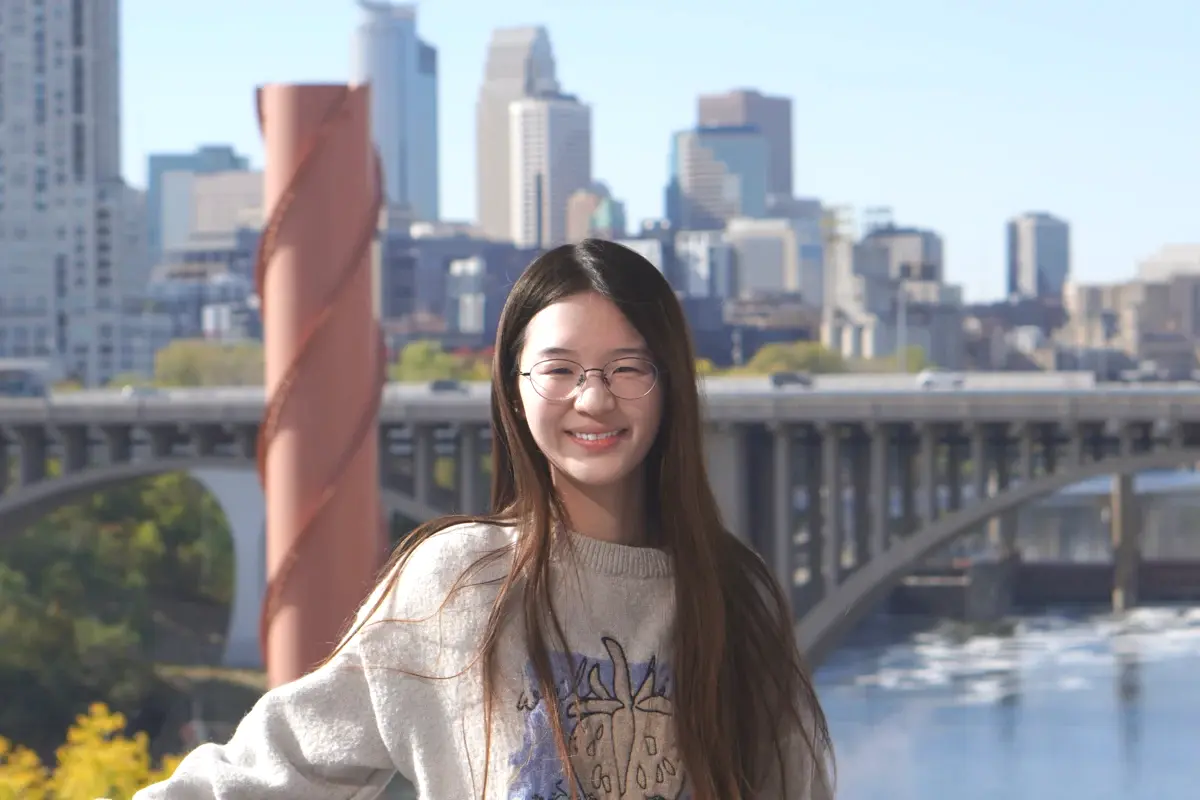
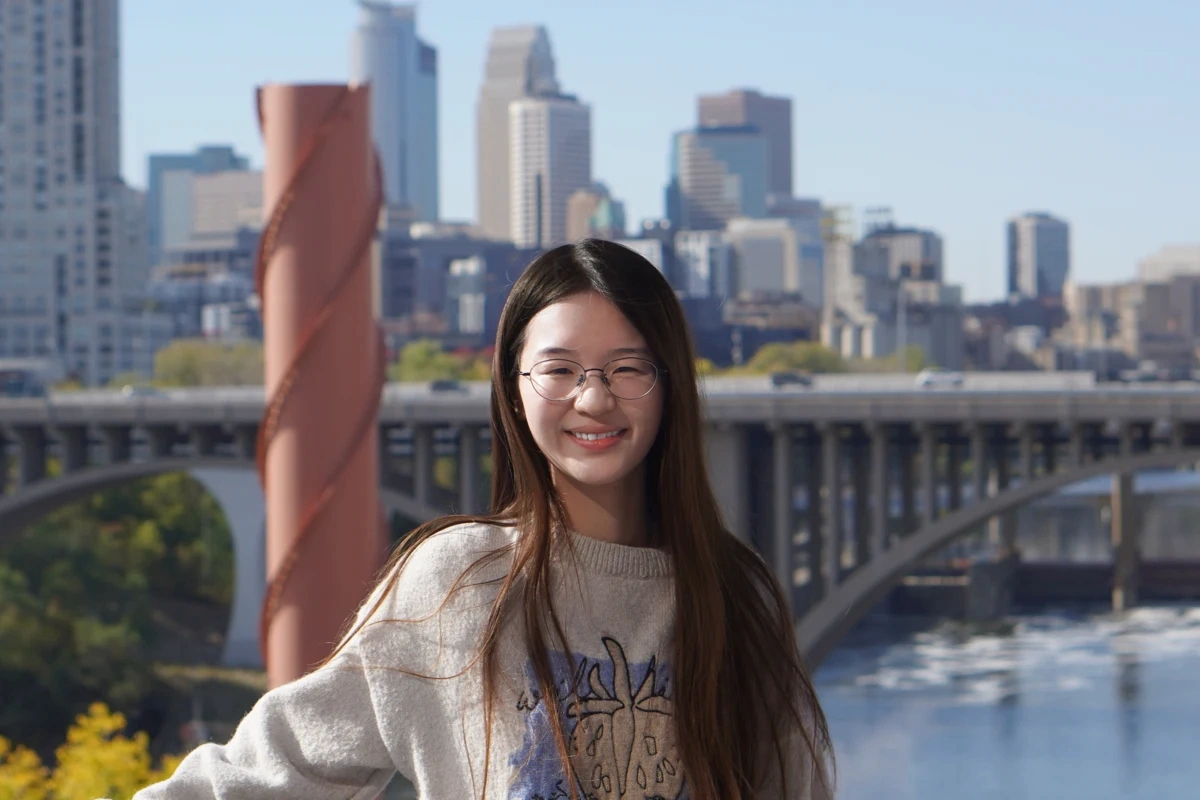
refactor: update member profile assets and styling
- Replaced Yulu Sun's profile images with higher resolution versions
- Cleaned up profile image styling by removing redundant brightness adjustments
- Refactored AboutPage scroll cue to use Tailwind utility classes

diff --git a/src/components/AboutPage.tsx b/src/components/AboutPage.tsx
@@ -1,4 +1,5 @@
 import React, { useEffect, useState } from 'react';
+import { ChevronDown } from 'lucide-react';
 
 export const AboutPage: React.FC = () => {
   const [showScrollCue, setShowScrollCue] = useState(true);
@@ -149,40 +150,6 @@ export const AboutPage: React.FC = () => {
           width: min(92%, 1140px);
         }
 
-        /* Bottom Fixed Scroll Cue */
-        .ref-scroll-cue {
-          position: fixed;
-          left: 50%;
-          bottom: 14px;
-          transform: translateX(-50%);
-          z-index: 30;
-          display: flex;
-          justify-content: center;
-          align-items: center;
-          width: 36px;
-          height: 32px;
-          color: #8c8c93;
-          cursor: pointer;
-          background: transparent;
-          border: none;
-          border-radius: 8px;
-          transition: color .2s, background-color .2s, opacity .2s;
-        }
-
-        .ref-scroll-cue svg {
-          width: 20px;
-          height: 20px;
-          fill: none;
-          stroke: currentColor;
-          stroke-width: 1.8;
-          stroke-linecap: round;
-          stroke-linejoin: round;
-        }
-
-        .ref-scroll-cue:hover {
-          color: #9174bc;
-          background: #f0eaf7;
-        }
 
         @media (max-width: 650px) {
           .ref-about-main .about-intro {
@@ -313,19 +280,24 @@ export const AboutPage: React.FC = () => {
           </section>
         </div>
 
-        {/* Floating scroll cue chevron matching reference site */}
-        {showScrollCue && (
+        {/* Floating scroll cue chevron matching Explore research projects page */}
+        <div
+          className={`fixed bottom-5 sm:bottom-7 left-1/2 -translate-x-1/2 z-30 transition-all duration-300 ease-out ${
+            showScrollCue
+              ? 'opacity-100 translate-y-0'
+              : 'opacity-0 pointer-events-none translate-y-2'
+          }`}
+        >
           <button
             type="button"
             onClick={scrollToPrinciples}
-            className="ref-scroll-cue"
-            aria-label="Scroll to more content"
+            className="flex items-center justify-center w-9 h-9 sm:w-10 sm:h-10 rounded-full border border-stone-200/90 bg-white hover:border-[#7542b3]/40 hover:bg-[#f1e7fa]/40 text-[#736e79] hover:text-[#7542b3] transition-all cursor-pointer select-none group shadow-2xs"
+            aria-label="Scroll down to Guiding Principles"
+            title="Guiding Principles"
           >
-            <svg viewBox="0 0 24 24" aria-hidden="true">
-              <path d="m6 9 6 6 6-6" />
-            </svg>
+            <ChevronDown className="w-5 h-5 transition-transform group-hover:translate-y-0.5" />
           </button>
-        )}
+        </div>
       </main>
     </>
   );

diff --git a/src/components/MemberProfile.tsx b/src/components/MemberProfile.tsx
@@ -85,9 +85,7 @@ export const MemberProfile: React.FC = () => {
             <img
               src={member.photo}
               alt={member.name}
-              className={`w-full object-cover rounded-2xl block border border-stone-200/80 shadow-2xs ${
-                member.id === 'yulu-sun' ? 'brightness-[1.04]' : ''
-              }`}
+              className="w-full object-cover rounded-2xl block border border-stone-200/80 shadow-2xs"
               style={{
                 aspectRatio: '4 / 4.6',
                 objectPosition: member.photoPosition || (member.id === 'yoojeong-son' ? '35% 35%' : 'center 35%'),

diff --git a/src/components/TeamPage.tsx b/src/components/TeamPage.tsx
@@ -297,7 +297,7 @@ export const TeamPage: React.FC = () => {
                   <img
                     src={member.cardPhoto || member.photo}
                     alt={member.name}
-                    className="w-full h-full object-cover object-[center_35%] min-h-[280px] lg:h-[48svh] lg:max-h-[500px] brightness-[1.04]"
+                    className="w-full h-full object-cover object-[center_35%] min-h-[280px] lg:h-[48svh] lg:max-h-[500px]"
                   />
                 </div>
 
